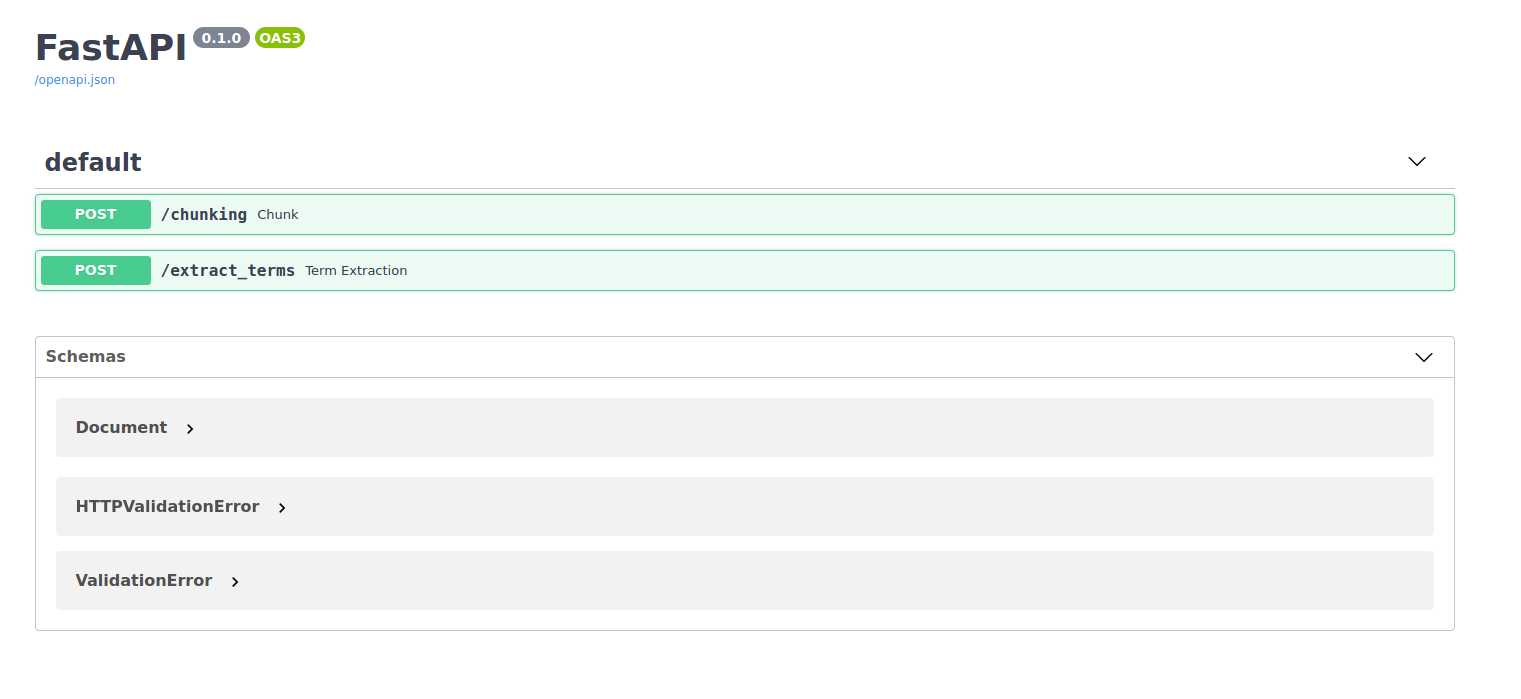
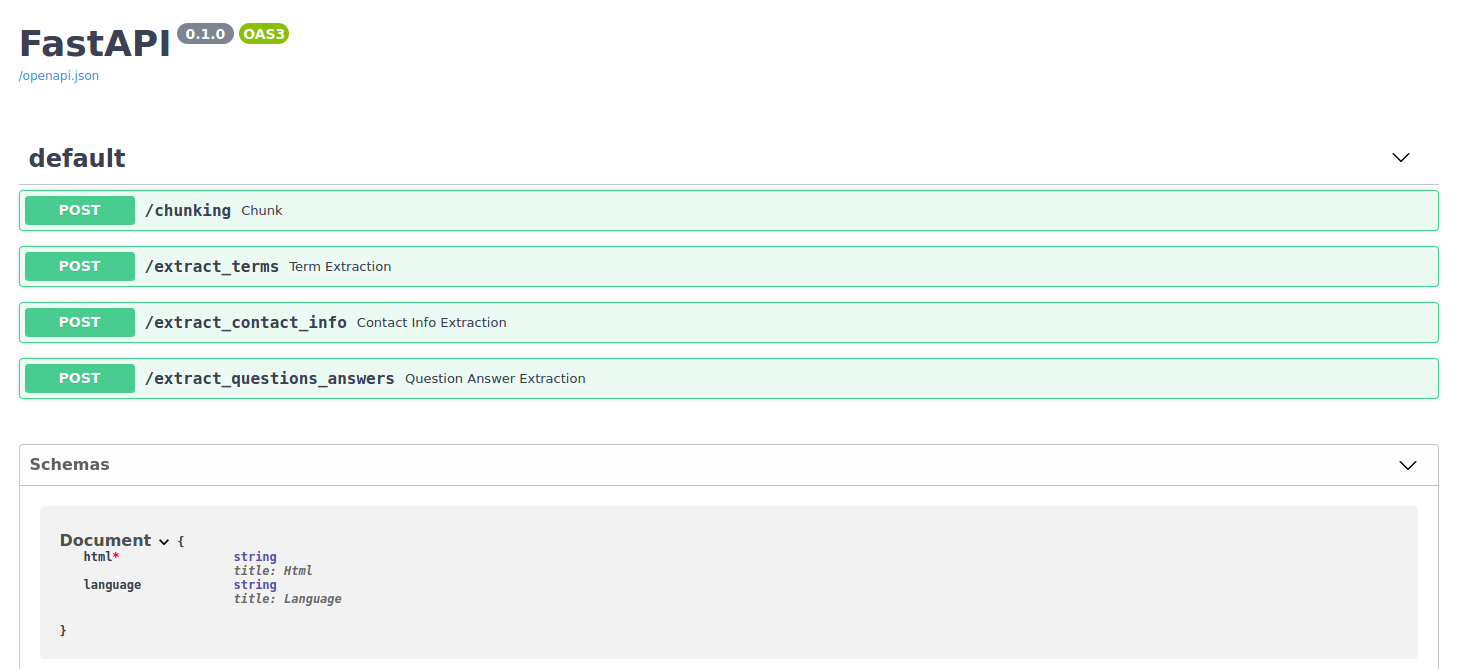
update readme

diff --git a/README.md b/README.md
@@ -9,9 +9,9 @@ use "dcli.sh" to start a docker container
 
 At `localhost:5001/docs`, one should find the ![swagger](https://github.com/CrossLangNV/C4C_term_extraction/tree/main/media/swagger.png?raw=true).
 
-Now a json can be sent to `http://localhost:5001/extract_terms` or `http://localhost:5001/chunking`. The json should contain the fields `html` (i.e. scraped webpage) and `language`. The latter specifying which Spacy model to use. The following languages are supported: 'en', 'de', 'nl', 'fr', 'it', 'nb', 'sl', 'hr'.
+Now a json can be sent to `http://localhost:5001/extract_terms`, `http://localhost:5001/chunking`, `http://localhost:5001/extract_contact_info` or `http://localhost:5001/extract_questions_answers`. The json should contain the fields `html` (i.e. scraped webpage) and `language`. The latter specifying which Spacy model to use for term extraction (only used in `http://localhost:5001/extract_terms`, otherwise ignored). The following languages are supported: 'en', 'de', 'nl', 'fr', 'it', 'nb', 'sl', 'hr'. 
 
-For extraction of text, and removal of boilerplate text (extraction of main body text) the python package [trafilatura](https://github.com/adbar/trafilatura) is used. When specifying the language code, trafilatura will only extract text from webpages in the given language. If `http://localhost:5001/chunking` is used, it is not necessary to specify the language. 
+For extraction of text, and removal of boilerplate text (extraction of main body text) the python package [trafilatura](https://github.com/adbar/trafilatura) is used. If `http://localhost:5001/chunking` is used, it is not necessary to specify the language.
 
 The json could for example look like this:
 
@@ -29,7 +29,7 @@ input_json['html']="<title>The title </title><p>This the first test sentence.</p
 input_json['language']=""
 ```
 
-if `http://localhost:5001/chunking` is used, and one is not interested in extracting text from webpages in a specific language.
+if one only uses `http://localhost:5001/chunking` is used.
 
 Both `http://localhost:5001/extract_terms` and `http://localhost:5001/chunking` will return a json containing a "title", "tags", "excerpt", "text", "hostname", "source-hostname", "source", "cas_content" and "language" field. The "cas_content" is a UIMA CAS object, encoded in base64.
 
